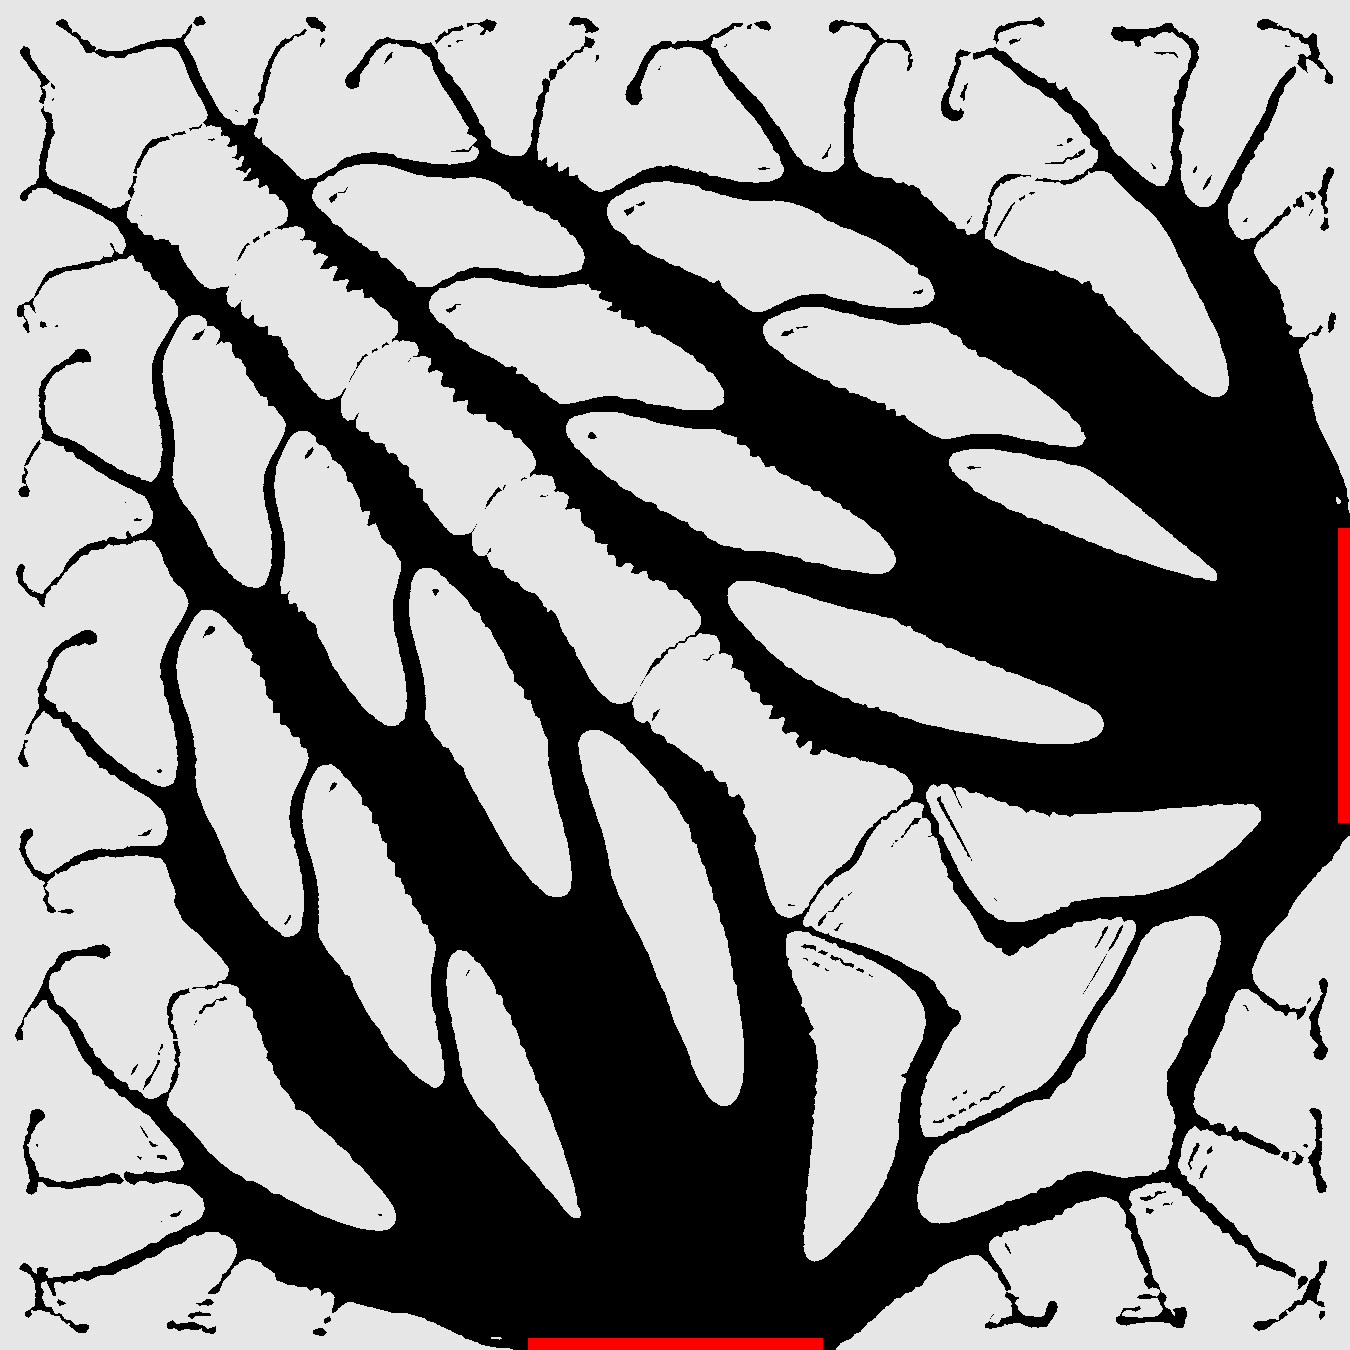
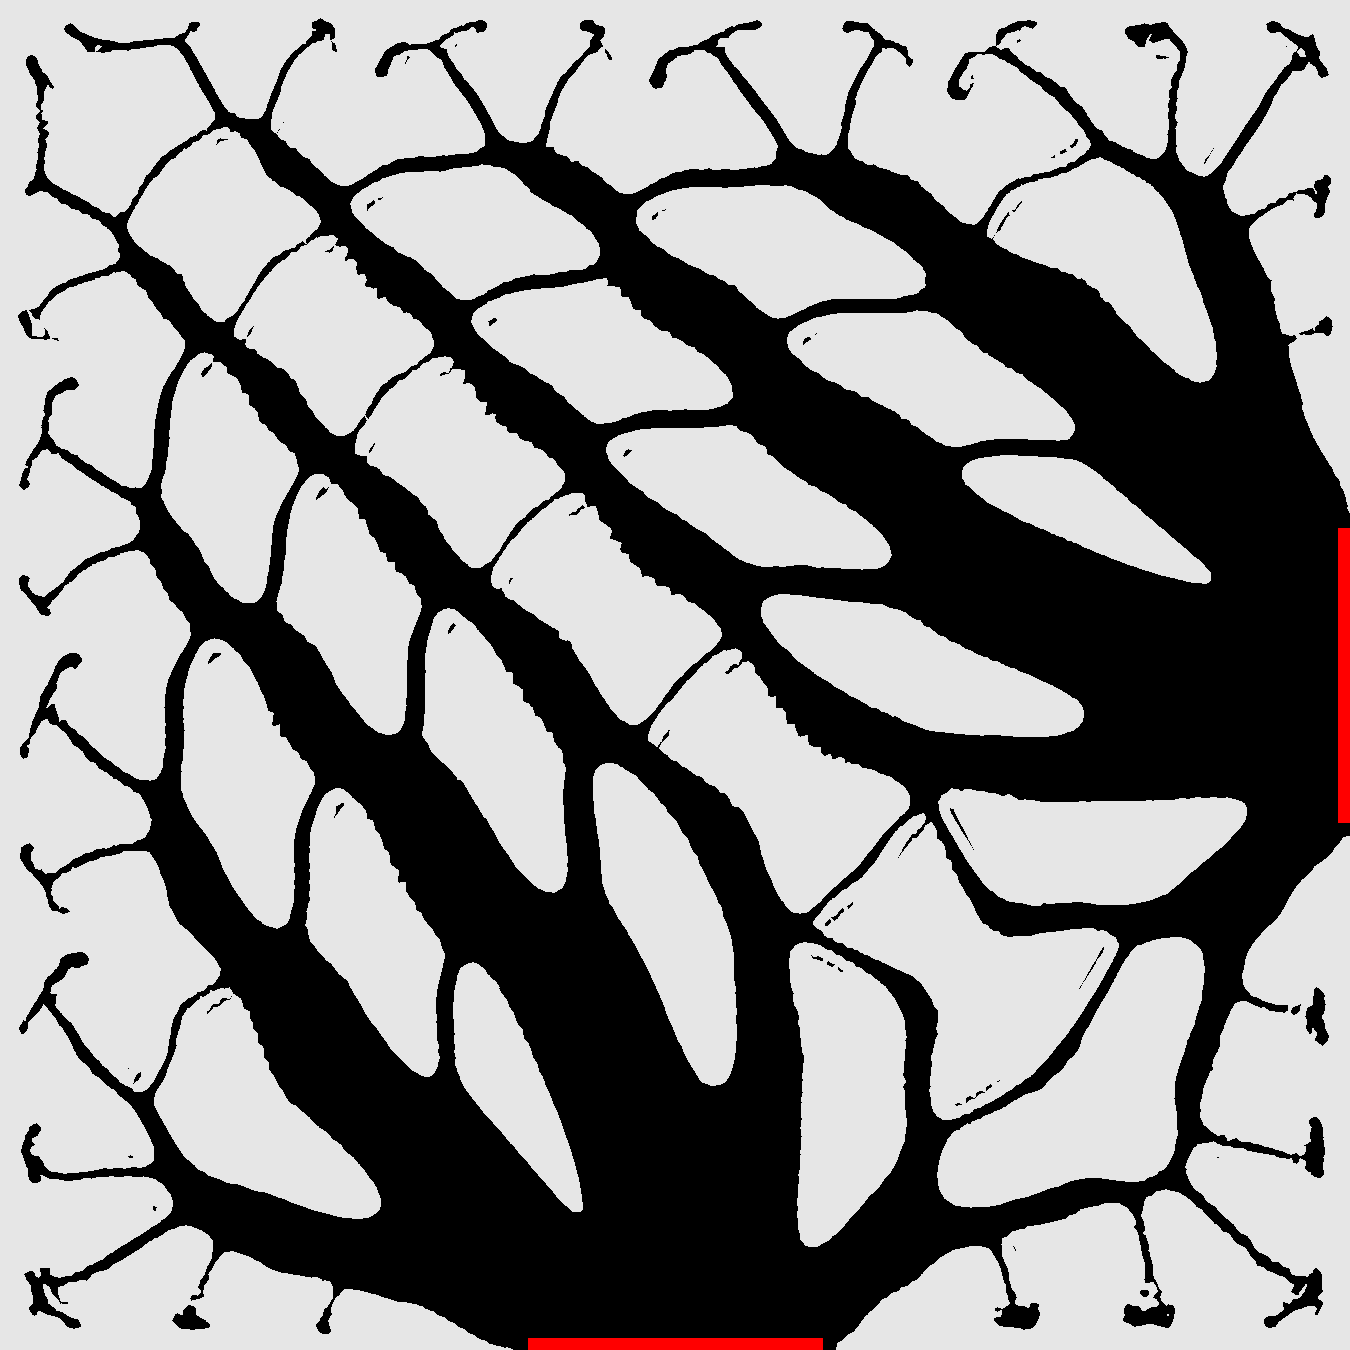
...

diff --git a/tex/distributed.tex b/tex/distributed.tex
@@ -2240,8 +2240,8 @@ Thus, the material is penalized close to the boundary.
 
 \noindent\textit{Example 3.} 
 We apply a localized heat source given by the function
-$f(x,y) \coloneqq \phi(\vert(x,y)-(0.5, 0.5)\vert_2)$
-where $\phi$ is a radial function defined as
+$f(x,y) \coloneqq \phi(\vert(x,y)-(0.5, 0.5)\vert_2)$,
+where $\phi$ is the radial function defined as
 \begin{equation}
 	\phi(r) \coloneqq
 	\begin{cases}
@@ -2273,28 +2273,28 @@ the velocity problem is solved with $\mathbb{H} = H^1(\mathcal{D})^d$.
 \label{fig:heat3}
 \end{center}
 
-\noindent\textit{Example 4.}  (multiple load cases)
-
-$\Gamma_0^\mathrm{I} = (0.4,0.6)\times\{y=0\}$
-
-$\Gamma_0^\mathrm{II} = \{x=1\}\times(0.4,0.6)$
-
-$\Gamma_0 = \Gamma_0^\mathrm{I} \cup \Gamma_0^\mathrm{II}$
-
-$f\equiv 1$
-
-$V = 0.4$
-
+\noindent\textit{Example 4.}
+In this example, two subsets of the boundary are kept at zero temperature:
+\[
+\Gamma_0^\mathrm{I} = (0.4,0.6)\times\{y=0\}\;,\;\Gamma_0^\mathrm{II} = \{x=1\}\times(0.4,0.6).
+\]
+First, we solve \eqref{eq:heat_cost}-\eqref{eq:heat_prob}
+with $\Gamma_0 = \Gamma_0^\mathrm{I} \cup \Gamma_0^\mathrm{II}$.
+Later, we solve the problem with multiple sinks
+($\Gamma_0^\mathrm{I}$ and $\Gamma_0^\mathrm{II}$ in this case),
+along with the cost functional given by the sum of the corresponding thermal compliances.
+In both cases, $f\equiv 1$ and $V = 0.4$.
+The first test is carried out using data parallelism with two processes:
 \begin{lstlisting}
-mpirun -np 2 python test.py 12 # Data
+mpirun -np 2 python test.py 12 # Data (68 sec)
 \end{lstlisting}
-
+Since in the second test there are two PDEs to be solved,
+we can employ task parallelism with two processes:
 \begin{lstlisting}
-mpirun -np 2 python test.py 13 # Task
+mpirun -np 2 python test.py 13 # Task (100 sec)
 \end{lstlisting}
-
-Lagrangian value : multiple = two times simple case 
-Figure \ref{fig:heat4}
+The results are in Figure \ref{fig:heat4}.
+%Lagrangian value : multiple = two times simple case 
 \begin{center}
 \includegraphics[width=0.48\linewidth]{heat4_0.png}
 \hfill
@@ -2303,8 +2303,11 @@ Figure \ref{fig:heat4}
 \hfill
 \includegraphics[width=0.48\linewidth]{heat4_3.png}
 \captionof{figure}{
-	Initial guess and
-	optimized design at iteration $i=207$.
+	Initial guess (top-left) and
+	Lagrangian values (top-right).
+	Note that the multiple case is approximately two times the simple case.
+	optimized designs at iteration $i=215$ and $i=199$, 
+	computed in a mesh with $92\,612$ triangles.
 }
 \label{fig:heat4}
 \end{center}

diff --git a/code/load.py b/code/load.py
@@ -286,8 +286,15 @@ def test_12():
     plot_results_for_doc(
         test_path, 0, [[0, 1], [0, 1]], 6, Path("../tex/heat4_0.png"), boundaries
     )
+
+    last_iter = 215
     plot_results_for_doc(
-        test_path, 250, [[0, 1], [0, 1]], 6, Path("../tex/heat4_2.png"), boundaries
+        test_path,
+        last_iter,
+        [[0, 1], [0, 1]],
+        6,
+        Path("../tex/heat4_2.png"),
+        boundaries,
     )
 
 
@@ -317,8 +324,15 @@ def test_13():
 
     # plot_basic(test_path, boundaries)
 
+    last_iter = 199
+
     plot_results_for_doc(
-        test_path, 199, [[0, 1], [0, 1]], 6, Path("../tex/heat4_3.png"), boundaries
+        test_path,
+        last_iter,
+        [[0, 1], [0, 1]],
+        6,
+        Path("../tex/heat4_3.png"),
+        boundaries,
     )
 
 

diff --git a/code/test.py b/code/test.py
@@ -1793,7 +1793,7 @@ def test_12():
     md.create_initial_level(centers, radii)
     md.save_initial_level(comm)
 
-    md.runDP(niter=250, ctrn_tol=1e-3, lgrn_tol=1e-2)
+    md.runDP(niter=250, ctrn_tol=1e-3, lgrn_tol=5e-2)
 
 
 def test_13():
